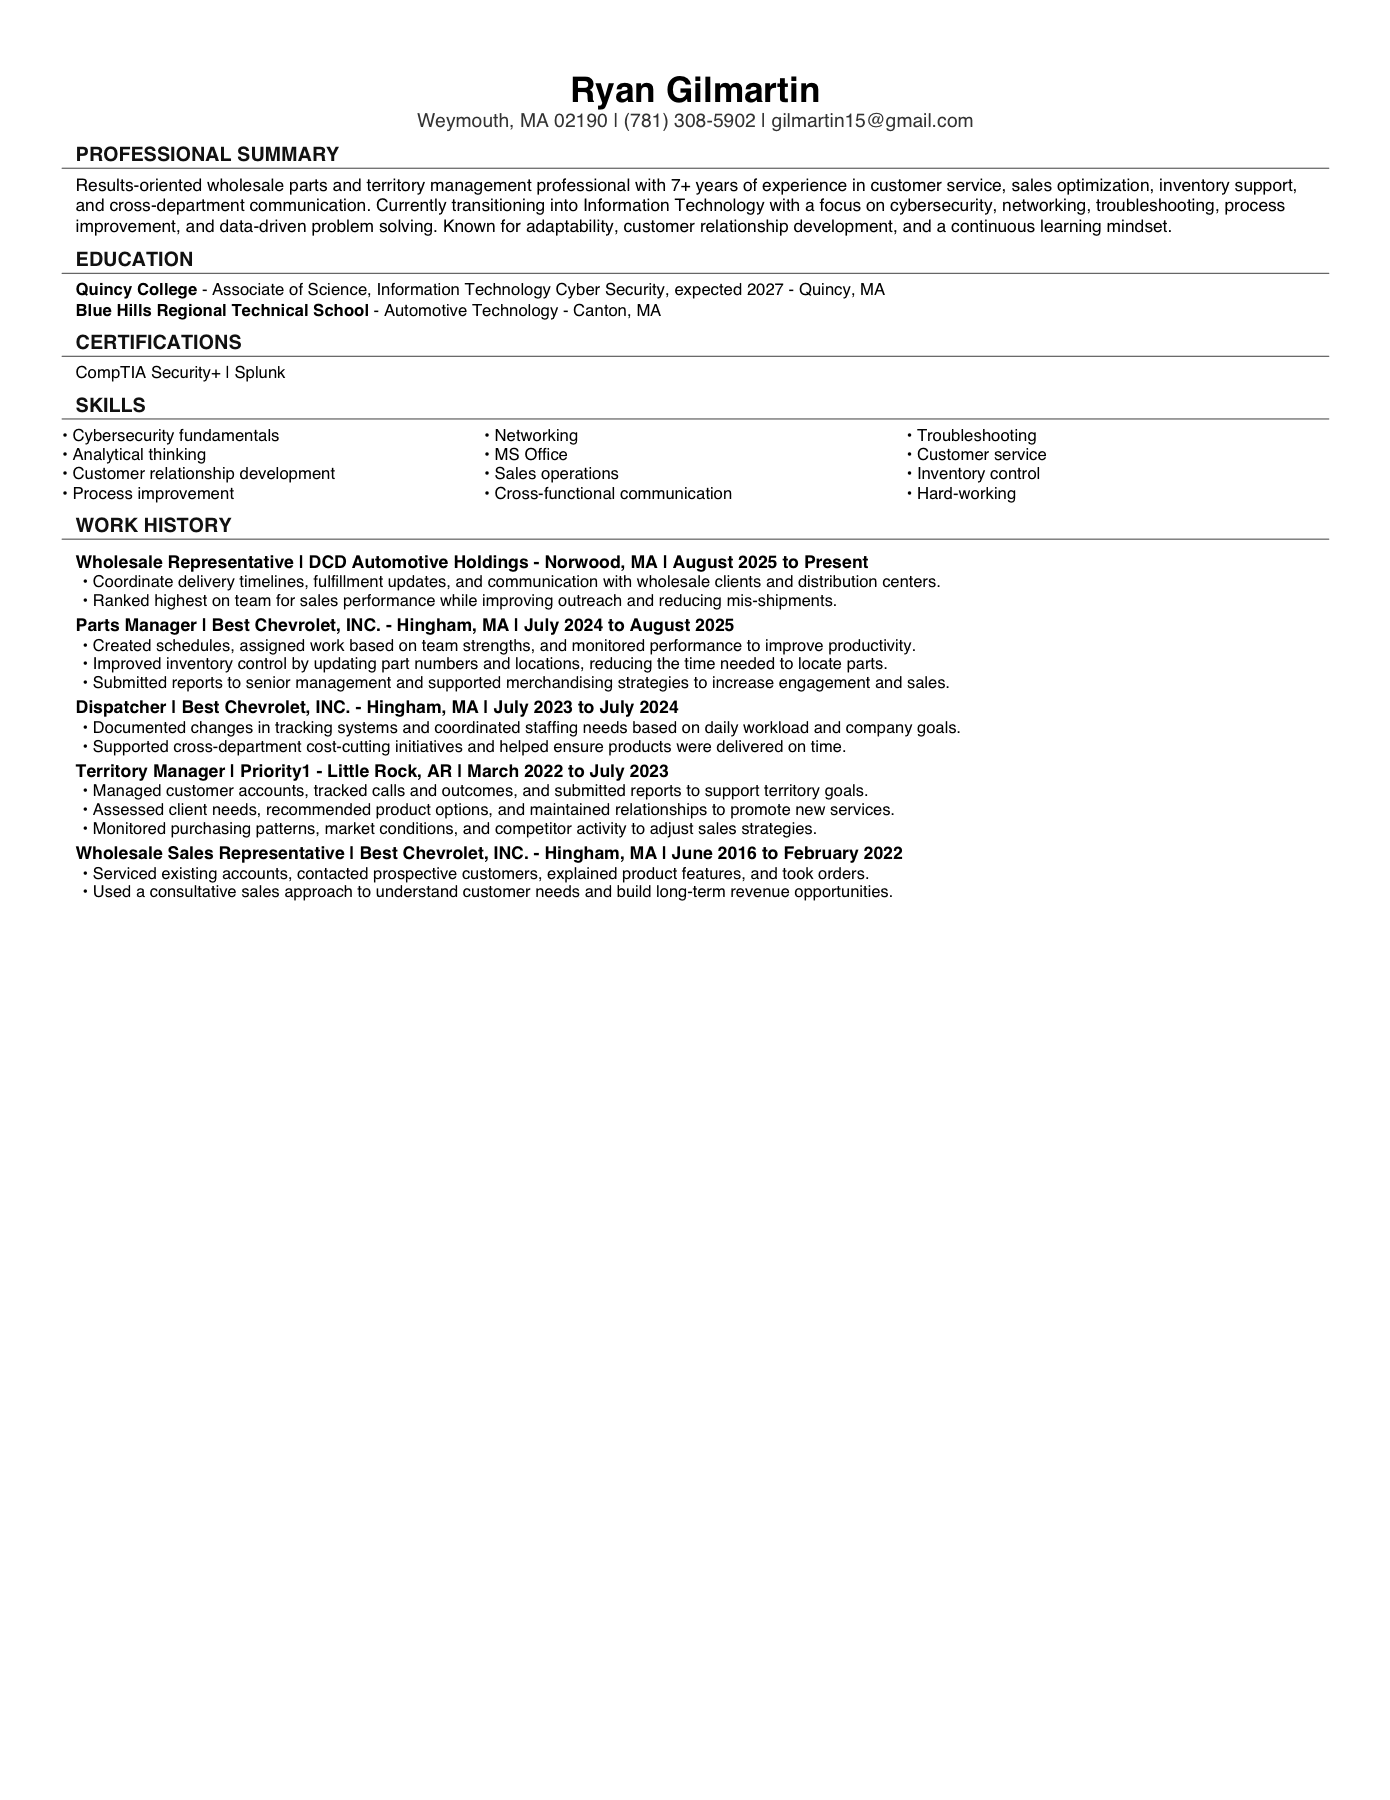
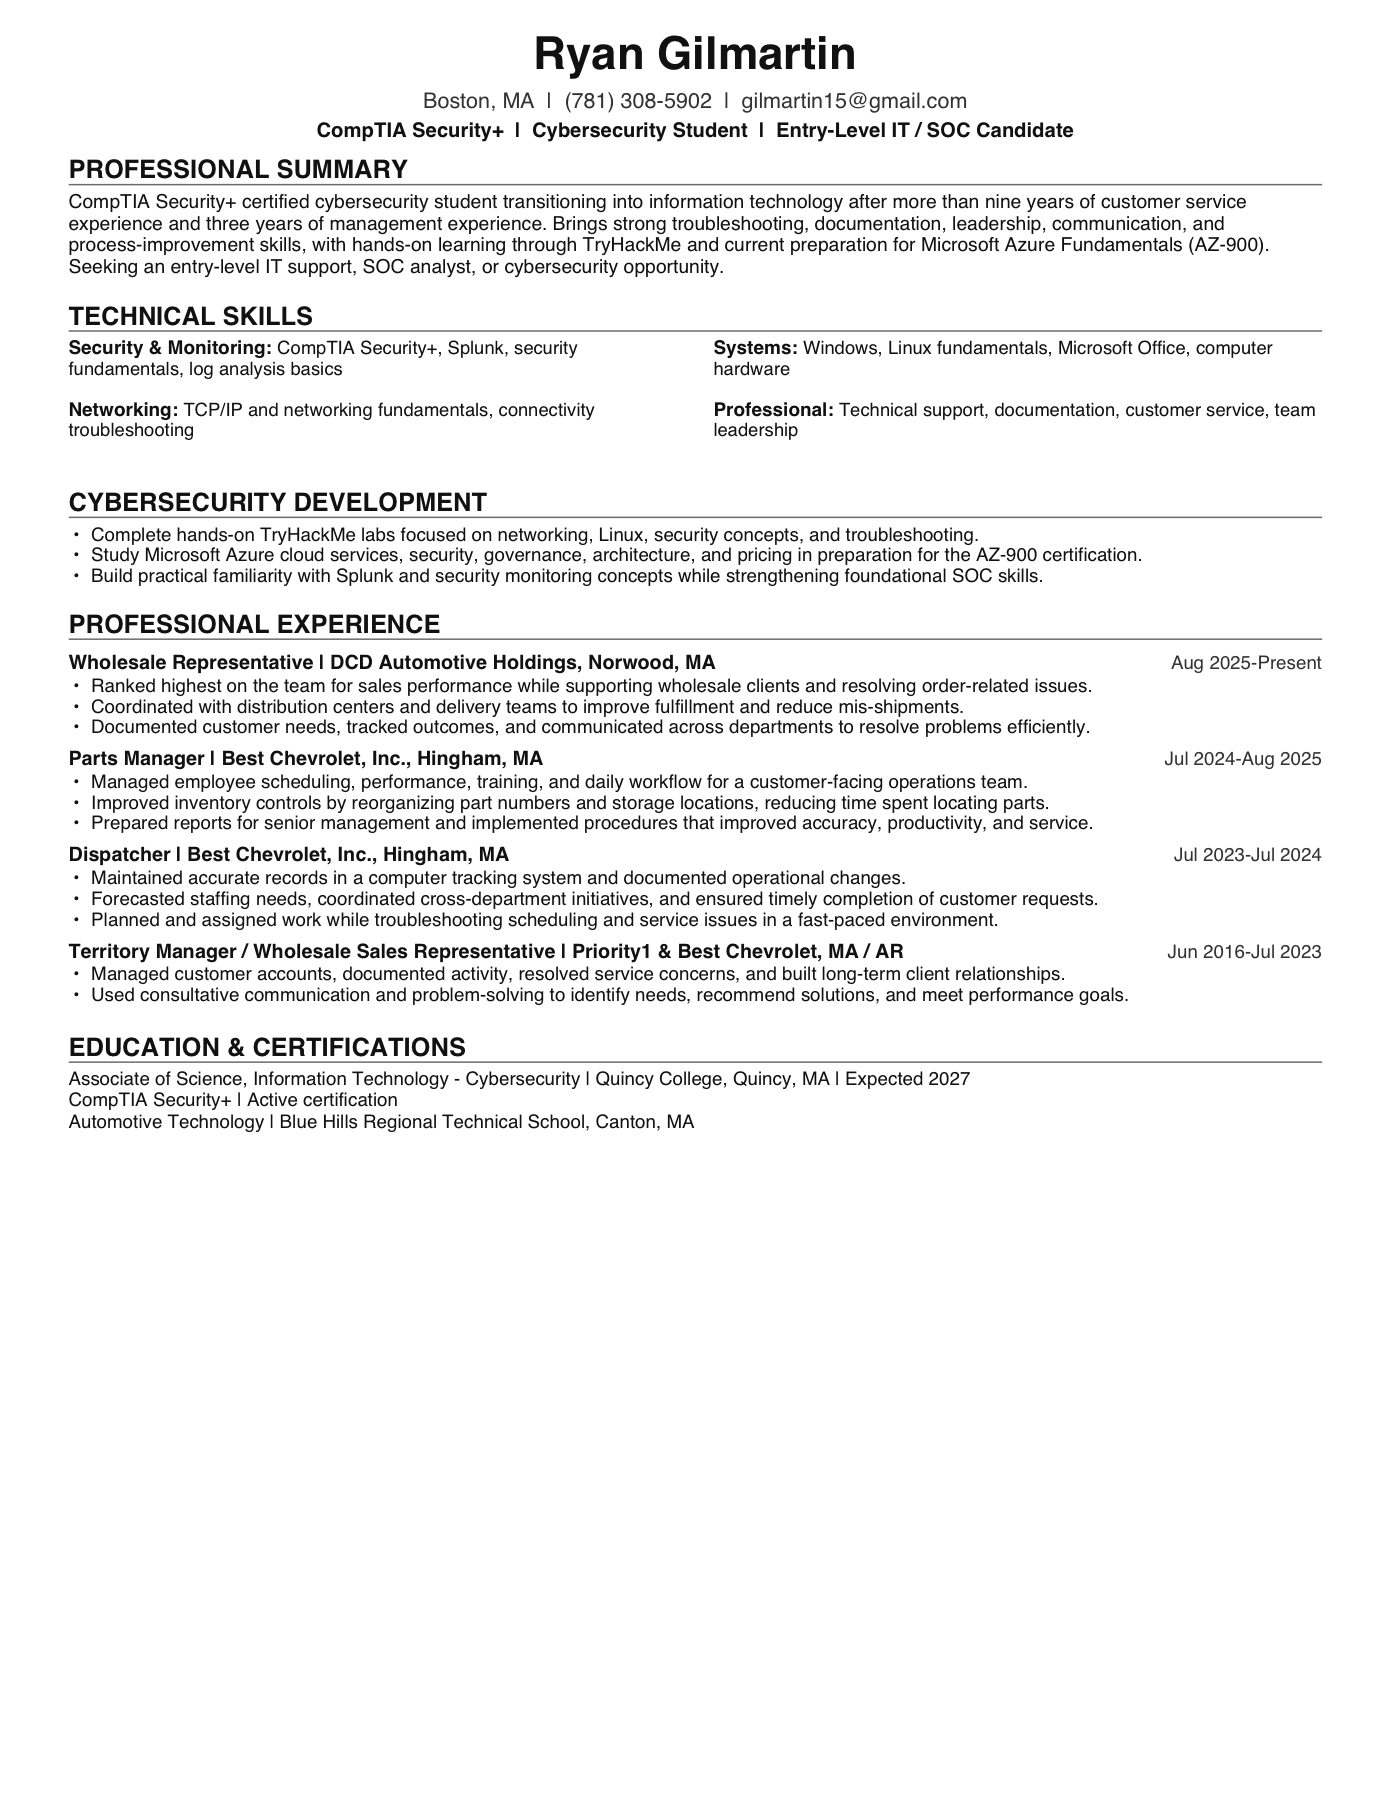
Update resume with Boston cyber version

diff --git a/resume.html b/resume.html
@@ -6,7 +6,7 @@
     <title>Ryan Gilmartin | Resume</title>
     <meta
       name="description"
-      content="Resume for Ryan Gilmartin, a cybersecurity and IT candidate with homelab, troubleshooting, and CompTIA certification experience."
+      content="Resume for Ryan Gilmartin, an IT and cybersecurity candidate with customer service, operations, networking, troubleshooting, and CompTIA Security+ experience."
     />
     <link rel="stylesheet" href="styles.css" />
   </head>
@@ -29,12 +29,17 @@
         <div>
           <p class="eyebrow">Resume</p>
           <h1>Ryan Gilmartin</h1>
-          <p>Cybersecurity and IT candidate focused on practical labs, reliable troubleshooting, and clear technical documentation.</p>
+          <p>
+            CompTIA Security+ certified cybersecurity student transitioning into
+            information technology with 9+ years of customer service experience,
+            3 years of management experience, and hands-on learning through
+            TryHackMe.
+          </p>
         </div>
         <div class="resume-contact-card">
           <img class="resume-headshot" src="assets/ryan-gilmartin-headshot.jpg" alt="Ryan Gilmartin headshot" />
           <span>Target Roles</span>
-          <strong>SOC Analyst, IT Support, Help Desk, Jr. Security Analyst</strong>
+          <strong>Entry-Level IT Support, SOC Analyst, Cybersecurity</strong>
           <a href="mailto:gilmartin15@gmail.com">gilmartin15@gmail.com</a>
           <a href="https://www.linkedin.com/in/ryan-gilmartin-147a14136">LinkedIn Profile</a>
           <div class="resume-actions">
@@ -47,65 +52,119 @@
       <section id="resume-content" class="resume-block">
         <h2>Professional Summary</h2>
         <p>
-          Hands-on cybersecurity and IT candidate building a portfolio around
-          homelabs, monitoring, Active Directory practice, network segmentation,
-          endpoint visibility, and repeatable documentation. Holds a CompTIA
-          Security+ certification and is comfortable learning new tools,
-          breaking down technical problems, and explaining work in a way that
-          helps teams understand both the fix and the reasoning behind it.
+          CompTIA Security+ certified cybersecurity student transitioning into
+          information technology after more than nine years of customer service
+          experience and three years of management experience. Brings strong
+          troubleshooting, documentation, leadership, communication, and
+          process-improvement skills, with hands-on learning through TryHackMe
+          and current preparation for Microsoft Azure Fundamentals (AZ-900).
+          Seeking an entry-level IT support, SOC analyst, or cybersecurity
+          opportunity.
         </p>
       </section>
 
       <section class="resume-columns">
         <article class="resume-block">
-          <h2>Certification</h2>
-          <div class="cert-badge">
-            <span>CompTIA</span>
-            <strong>CompTIA Security+</strong>
-            <small>Certificate PDF linked from this portfolio</small>
-            <a href="assets/comptia-security-plus-certificate.pdf">View Certificate</a>
+          <h2>Education</h2>
+          <div class="resume-entry">
+            <h3>Quincy College</h3>
+            <p>Associate of Science, Information Technology Cyber Security, expected 2027 - Quincy, MA</p>
+          </div>
+          <div class="resume-entry">
+            <h3>Blue Hills Regional Technical School</h3>
+            <p>Automotive Technology - Canton, MA</p>
           </div>
         </article>
 
         <article class="resume-block">
-          <h2>Core Skills</h2>
-          <ul class="resume-list">
-            <li>Windows and Linux administration fundamentals</li>
-            <li>Networking, DNS, VLANs, firewalls, and troubleshooting</li>
-            <li>SIEM monitoring concepts with Splunk and Wazuh</li>
-            <li>Wireshark packet analysis and network investigation</li>
-            <li>Virtualization and homelab documentation</li>
-          </ul>
+          <h2>Certifications</h2>
+          <div class="cert-badge">
+            <span>Credentials</span>
+            <strong>CompTIA Security+ | Splunk</strong>
+            <small>Security+ certificate PDF linked from this portfolio</small>
+            <a href="assets/comptia-security-plus-certificate.pdf">View Certificate</a>
+          </div>
         </article>
       </section>
 
       <section class="resume-block">
-        <h2>Selected Technical Work</h2>
-        <div class="resume-projects">
+        <h2>Technical Skills</h2>
+        <div class="skill-grid">
+          <div>
+            <span>Security and Monitoring</span>
+            <p>CompTIA Security+, Splunk, security fundamentals, log analysis basics</p>
+          </div>
+          <div>
+            <span>Systems</span>
+            <p>Windows, Linux fundamentals, Microsoft Office, computer hardware</p>
+          </div>
+          <div>
+            <span>Networking</span>
+            <p>TCP/IP and networking fundamentals, connectivity troubleshooting</p>
+          </div>
+          <div>
+            <span>Professional</span>
+            <p>Technical support, documentation, customer service, team leadership</p>
+          </div>
+        </div>
+      </section>
+
+      <section class="resume-block">
+        <h2>Cybersecurity Development</h2>
+        <ul class="resume-list">
+          <li>Complete hands-on TryHackMe labs focused on networking, Linux, security concepts, and troubleshooting.</li>
+          <li>Study Microsoft Azure cloud services, security, governance, architecture, and pricing in preparation for the AZ-900 certification.</li>
+          <li>Build practical familiarity with Splunk and security monitoring concepts while strengthening foundational SOC skills.</li>
+        </ul>
+      </section>
+
+      <section class="resume-block">
+        <h2>Work History</h2>
+        <div class="resume-work">
           <article>
-            <span>Homelab</span>
-            <h3>Active Directory Attack and Defense Lab</h3>
-            <p>Windows domain practice environment for identity, permissions, attack paths, and defensive hardening notes.</p>
+            <h3>Wholesale Representative | DCD Automotive Holdings - Norwood, MA</h3>
+            <span>August 2025 to Present</span>
+            <ul class="resume-list">
+              <li>Ranked highest on the team for sales performance while supporting wholesale clients and resolving order-related issues.</li>
+              <li>Coordinated with distribution centers and delivery teams to improve fulfillment and reduce mis-shipments.</li>
+              <li>Documented customer needs, tracked outcomes, and communicated across departments to resolve problems efficiently.</li>
+            </ul>
           </article>
           <article>
-            <span>Monitoring</span>
-            <h3>Home SOC Stack</h3>
-            <p>Security monitoring practice using Wazuh, Suricata, Sysmon-style telemetry, dashboards, and alert review workflows.</p>
+            <h3>Parts Manager | Best Chevrolet, INC. - Hingham, MA</h3>
+            <span>July 2024 to August 2025</span>
+            <ul class="resume-list">
+              <li>Managed employee scheduling, performance, training, and daily workflow for a customer-facing operations team.</li>
+              <li>Improved inventory controls by reorganizing part numbers and storage locations, reducing time spent locating parts.</li>
+              <li>Prepared reports for senior management and implemented procedures that improved accuracy, productivity, and service.</li>
+            </ul>
           </article>
           <article>
-            <span>Infrastructure</span>
-            <h3>Virtualized Network Playground</h3>
-            <p>Proxmox, pfSense, VLAN, DNS, backup, and segmentation practice with diagrams and troubleshooting notes.</p>
+            <h3>Dispatcher | Best Chevrolet, INC. - Hingham, MA</h3>
+            <span>July 2023 to July 2024</span>
+            <ul class="resume-list">
+              <li>Documented changes in tracking systems and coordinated staffing needs based on daily workload and company goals.</li>
+              <li>Forecasted staffing needs, coordinated cross-department initiatives, and ensured timely completion of customer requests.</li>
+              <li>Planned and assigned work while troubleshooting scheduling and service issues in a fast-paced environment.</li>
+            </ul>
+          </article>
+          <article>
+            <h3>Territory Manager / Wholesale Sales Representative | Priority1 & Best Chevrolet, MA / AR</h3>
+            <span>June 2016 to July 2023</span>
+            <ul class="resume-list">
+              <li>Managed customer accounts, documented activity, resolved service concerns, and built long-term client relationships.</li>
+              <li>Used consultative communication and problem-solving to identify needs, recommend solutions, and meet performance goals.</li>
+            </ul>
           </article>
         </div>
       </section>
 
       <section class="resume-block">
-        <h2>Tools and Technologies</h2>
+        <h2>Portfolio Focus</h2>
         <p>
-          Windows, Linux, pfSense, Proxmox, Splunk, Wazuh, Wireshark, Suricata,
-          Sysmon concepts, PowerShell, Active Directory, DNS, networking
-          fundamentals, and technical writing.
+          This portfolio expands on the IT and cybersecurity direction shown in
+          the resume through homelabs, technical projects, article notes,
+          certifications, and hands-on learning.
         </p>
       </section>
     </main>

diff --git a/index.html b/index.html
@@ -349,11 +349,10 @@
             <p class="eyebrow">Resume</p>
             <h2>Ready for cybersecurity and IT roles</h2>
             <p>
-              Hands-on cybersecurity and IT candidate with practical homelab
-              experience, troubleshooting discipline, documentation habits, and
-              a CompTIA Security+ certification. The resume page highlights
-              labs, projects, tools, and the technical strengths behind this
-              portfolio.
+              CompTIA Security+ certified cybersecurity student transitioning
+              into information technology with 9+ years of customer service
+              experience, 3 years of management experience, troubleshooting
+              discipline, documentation habits, and hands-on TryHackMe learning.
             </p>
             <div class="hero-actions">
               <a class="button primary" href="resume-pdf.html">Open Resume</a>
@@ -373,7 +372,7 @@
             </article>
             <article>
               <span>Focus</span>
-              <strong>SOC, Help Desk, Jr. Security Analyst, IT Support</strong>
+              <strong>Entry-Level IT Support, SOC Analyst, Cybersecurity</strong>
             </article>
             <article>
               <span>Certification</span>
@@ -381,7 +380,7 @@
             </article>
             <article>
               <span>Tools</span>
-              <strong>Windows, Linux, pfSense, Splunk, Wazuh, Wireshark</strong>
+              <strong>Splunk, Windows, Linux fundamentals, Microsoft Office, TCP/IP</strong>
             </article>
             <article>
               <span>Strengths</span>

diff --git a/styles.css b/styles.css
@@ -1371,7 +1371,9 @@ p {
 
 .resume-contact-card span,
 .cert-badge span,
-.resume-projects span {
+.resume-projects span,
+.skill-grid span,
+.resume-work span {
   color: var(--green);
   font-size: 0.76rem;
   font-weight: 900;
@@ -1429,6 +1431,35 @@ p {
   margin: 0;
   padding-left: 1.1rem;
   color: var(--muted);
+}
+
+.skill-grid {
+  display: grid;
+  grid-template-columns: repeat(2, minmax(0, 1fr));
+  gap: 0.85rem;
+}
+
+.skill-grid div,
+.resume-work article {
+  border: 1px solid var(--line);
+  border-radius: 0.5rem;
+  background: rgba(237, 247, 241, 0.04);
+  padding: 1rem;
+}
+
+.skill-grid span,
+.resume-work span {
+  display: block;
+  margin-bottom: 0.35rem;
+}
+
+.skill-grid p {
+  margin-bottom: 0;
+}
+
+.resume-work {
+  display: grid;
+  gap: 1rem;
 }
 
 .resume-projects {
@@ -1543,7 +1574,8 @@ footer {
   .timeline,
   .resume-top,
   .resume-columns,
-  .resume-projects {
+  .resume-projects,
+  .skill-grid {
     grid-template-columns: 1fr;
   }
 }
@@ -1605,7 +1637,9 @@ footer {
   .resume-contact-card,
   .resume-block,
   .cert-badge,
-  .resume-projects article {
+  .resume-projects article,
+  .skill-grid div,
+  .resume-work article {
     border-color: #ddd;
     background: #fff;
     box-shadow: none;

diff --git a/resume-pdf.html b/resume-pdf.html
@@ -24,7 +24,7 @@
     <main class="pdf-viewer-page">
       <div class="pdf-viewer-heading">
         <div>
-          <p class="eyebrow">Resume PDF</p>
+          <p class="eyebrow">Boston Cyber Resume</p>
           <h1>Ryan Gilmartin</h1>
         </div>
         <a class="button primary" href="assets/cyber-resume-ryan-gilmartin.pdf">Open PDF</a>
